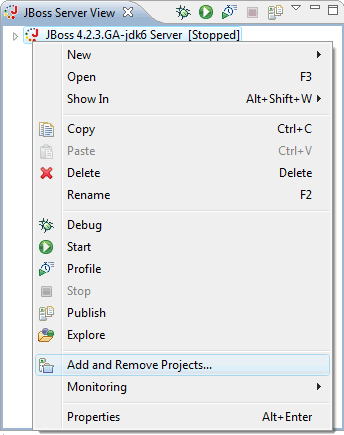
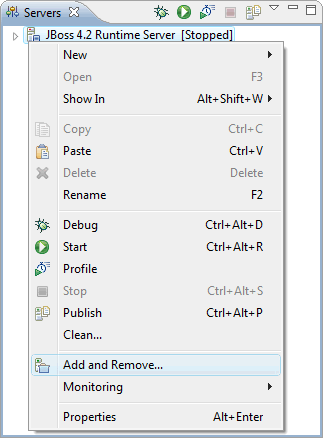
Updating Eclipse tutorial - in progress...

diff --git a/doc/tutorial/02-eclipse.html b/doc/tutorial/02-eclipse.html
@@ -494,13 +494,16 @@ and then import the project all over again.
     </div>
     You can run the goal(s) as needed by right clicking on the <strong>parent</strong> project and 
     select <code><strong>Run As &gt; Maven build</strong> </code> from the menu.
-    <img class="screenshot" src="img/eclipse-run-configurations-03.png" style="width:550px; display:block;" />
+    <img class="screenshot" style="width:500px;" 
+      src="img/eclipse-run-configurations-03.png" longdesc="img/eclipse-run-configurations-03.png" />
   </li>
   <li>
     Start the server and verify that the deployment works:
-    <img class="screenshot" src="img/eclipse-server-view-start-server-01.png" style="width:250px; display:block;" />
+    <img class="screenshot" style="width:300px;" 
+      src="img/eclipse-server-view-start-server-01.png" longdesc="img/eclipse-server-view-start-server-01.png"/>
     A successful deploy should look like this in the Console log:
-    <img class="screenshot" src="img/eclipse-server-view-start-server-02.png" style="width:750px; display:block;" />
+    <img class="screenshot" style="width:700px;" 
+      src="img/eclipse-server-view-start-server-02.png" longdesc="img/eclipse-server-view-start-server-02.png" />
   </li>
   <li>
     Open a browser and point the URL to <a href="http://localhost:8080/seam-tutorial">
@@ -510,9 +513,6 @@ and then import the project all over again.
     Stop the server.
   </li>
 </ol>
-
-<h1>The rest of the tutorial is temporary out of sync with the project!</h1>
-
 
 <h2 id="edit-compile-deploy-cycle">The Edit Compile Deploy Cycle</h2>
 <p>To have an effective development environment we need to automate the edit compile deploy cycle.
@@ -527,71 +527,93 @@ deploy your project.</p>
 <ol>
   <li>
     Open the <strong>JBoss Server View</strong> and add project to server.<br/>
-    <img class="screenshot" src="img/eclipse-wtp-01.png" style="width:280px; display:block;" />
-    Ad the <code>seam-tutorial.ear</code> project and click <strong>Finish</strong>.
-    <img class="screenshot" src="img/eclipse-wtp-02.png" style="width:400px; display:block;" />
+    <img class="screenshot" style="width:280px;" 
+      src="img/eclipse-wtp-01.png" longdesc="img/eclipse-wtp-01.png" />
+   </li>
+   <li>
+    Add the <code>seam-tutorial-ear</code> project and click <strong>Finish</strong>.
+    <img class="screenshot" style="width:400px;" 
+      src="img/eclipse-wtp-02.png" longdesc="img/eclipse-wtp-02.png" />
   </li>
   <li>
     Publish.<br/>
-    <img class="screenshot" src="img/eclipse-wtp-03.png" style="width:400px; display:block;" />
+    <img class="screenshot" style="width:280px;" 
+      src="img/eclipse-wtp-03.png" longdesc="img/eclipse-wtp-03.png" />
   </li>
   <li>
     Start the server and check the console output. 
-    <img class="screenshot" src="img/eclipse-server-view-start-server-01.png" style="width:250px; display:block;" />
+    <img class="screenshot" style="width:300px;" 
+      src="img/eclipse-wtp-07.png" longdesc="img/eclipse-wtp-07.png" />
+      
     <font color="red">You will notice that the application failed to deploy</font>:
+    <div style="width:100%; overflow:hidden;">
     <pre style="font-size:10px;">
 
-12:48:30,813 INFO  [EARDeployer] Init J2EE application: file:/C:/dev/server/jboss-4.2.3.GA-jdk6/server/default/deploy/seam-tutorial-ear.ear/
-12:48:30,814 ERROR [MainDeployer] Could not initialise deployment: file:/C:/dev/server/jboss-4.2.3.GA-jdk6/server/default/deploy/seam-tutorial-ear.ear/
+00:21:28,504 INFO  [EARDeployer] Init J2EE application: file:/C:/dev/server/jboss-4.2.3.GA-jdk6/server/default/deploy/seam-tutorial-ear.ear/
+00:21:28,506 ERROR [MainDeployer] Could not initialise deployment: file:/C:/dev/server/jboss-4.2.3.GA-jdk6/server/default/deploy/seam-tutorial-ear.ear/
 org.jboss.deployment.DeploymentException: No META-INF/application.xml found
-  at org.jboss.deployment.EARDeployer.init(EARDeployer.java:146)
-  at org.jboss.deployment.MainDeployer.init(MainDeployer.java:872)
-  at org.jboss.deployment.MainDeployer.deploy(MainDeployer.java:809)
-  ....
-  at org.jboss.Main$1.run(Main.java:508)
-  at java.lang.Thread.run(Thread.java:619)
-12:48:30,818 ERROR [URLDeploymentScanner] Incomplete Deployment listing:
+	at org.jboss.deployment.EARDeployer.init(EARDeployer.java:146)
+	at org.jboss.deployment.MainDeployer.init(MainDeployer.java:872)
+  ...
+	at $Proxy5.deploy(Unknown Source)
+	at org.jboss.system.server.ServerImpl.doStart(ServerImpl.java:482)
+	at org.jboss.system.server.ServerImpl.start(ServerImpl.java:362)
+	at org.jboss.Main.boot(Main.java:200)
+	at org.jboss.Main$1.run(Main.java:508)
+	at java.lang.Thread.run(Thread.java:619)
+00:21:28,508 ERROR [URLDeploymentScanner] Incomplete Deployment listing:
 
 --- Incompletely deployed packages ---
 org.jboss.deployment.DeploymentInfo@716583c1 { url=file:/C:/dev/server/jboss-4.2.3.GA-jdk6/server/default/deploy/seam-tutorial-ear.ear/ }
-  deployer: org.jboss.deployment.EARDeployer@1b7edd3
+  deployer: org.jboss.deployment.EARDeployer@1cefde4
   status: null
   state: FAILED
   watch: file:/C:/dev/server/jboss-4.2.3.GA-jdk6/server/default/deploy/seam-tutorial-ear.ear/
   altDD: null
-  lastDeployed: 1253443710814
-  lastModified: 1253443587024
+  lastDeployed: 1269127288505
+  lastModified: 1269127256769
   mbeans:
+
     </pre>
+    </div>
   </li>
   <li>
-    Stop the server and inspect the deploy directory. As you can see, the deploy directory contains a copy 
-    of the WEB-INF directory from the WAR module and a couple of jar files that shouldn't be there. 
-    Also the <code>*-ds.xml</code> file is missing. The problem is caused by this Eclipse bug:
-    <a href="https://bugs.eclipse.org/bugs/show_bug.cgi?id=247090">
-    Bug 247090 -  User)libraries incorrectly deployed within EARs</a>
-    <img class="screenshot" src="img/eclipse-wtp-04.png" style="width:400px; display:block;" />
+    Stop the server and inspect the deploy directory. As you can see, the deploy directory contains 
+    3 lib directories and the META-INF directory is empty! Also the <code>*-ds.xml</code> file is 
+    missing. The problem is caused by this Eclipse bug: 
+    <a href="https://bugs.eclipse.org/bugs/show_bug.cgi?id=247090">Bug 247090 -  Userlibraries 
+    incorrectly deployed within EARs</a> (and probably some m2eclipse/wtp/JBossTools bugs as vell :)
+    <img class="screenshot" style="width:600px;" 
+      src="img/eclipse-wtp-04.png" longdesc="img/eclipse-wtp-04.png" />
   </li>
   <li>
     Select the parent project and run <code>mvn install -Pexplode</code> to fix the incorrect deploy.</br>
-    <img class="screenshot" src="img/eclipse-run-configurations-03.png" style="width:550px; display:block;" />
-    <img class="screenshot" src="img/eclipse-wtp-05.png" style="width:330px; display:block;" />
+    <img class="screenshot" style="width:550px;" 
+      src="img/eclipse-run-configurations-03.png" longdesc="img/eclipse-run-configurations-03.png" />
+    <img class="screenshot" style="width:330px;" 
+      src="img/eclipse-wtp-05.png" longdesc="img/eclipse-wtp-05.png" />
   </li>
   <li>
-    Inspect the deploy directory and verify the the incorrectly deployed files are gone and that the 
-    <code>*-ds.xml</code> file is present.
-    <img class="screenshot" src="img/eclipse-wtp-06.png" style="width:400px; display:block;" />
+    Inspect the deploy directory and verify the the incorrectly deployed files are gone and that 
+    <code>seam-tutorial-ds.xml, META-INF/application.xml, META-INF/jboss-app.xml and 
+    META-INF/MANIFEST.MF</code> is present.
+    <img class="screenshot" src="img/eclipse-wtp-06.png" style="width:600px; display:block;" />
   </li>
   <li>
-    Start the server (in debug mode) and check the console output.
-    <img class="screenshot" src="img/eclipse-server-view-start-server-01.png" style="width:250px; display:block;" />
+    Start the server in <strong>debug</strong> mode and check the console output.
+    <img class="screenshot" style="width:350px; display:block;" 
+      src="img/eclipse-wtp-08.png" longdesc="img/eclipse-wtp-08.png" />
+      
+    <div style="width:100%; overflow:hidden;">
     <pre style="font-size:10px;">
 ....
-13:54:43,514 INFO  [EARDeployer] Started J2EE application: file:/C:/dev/server/jboss-4.2.3.GA-jdk6/server/default/deploy/seam-tutorial-ear.ear/
-13:54:43,562 INFO  [Http11Protocol] Starting Coyote HTTP/1.1 on http-localhost%2F127.0.0.1-8080
-13:54:43,571 INFO  [AjpProtocol] Starting Coyote AJP/1.3 on ajp-localhost%2F127.0.0.1-8009
-13:54:43,576 INFO  [Server] JBoss (MX MicroKernel) [4.2.3.GA (build: SVNTag=JBoss_4_2_3_GA date=200807181439)] Started in 14s:340ms
+04:00:17,120 INFO  [EARDeployer] Started J2EE application: file:/C:/dev/server/jboss-4.2.3.GA-jdk6/server/default/deploy/seam-tutorial-ear.ear/
+04:00:17,215 INFO  [Http11Protocol] Starting Coyote HTTP/1.1 on http-localhost%2F127.0.0.1-8080
+04:00:17,237 INFO  [Http11Protocol] Starting Coyote HTTP/1.1 on http-localhost%2F127.0.0.1-8443
+04:00:17,262 INFO  [AjpProtocol] Starting Coyote AJP/1.3 on ajp-localhost%2F127.0.0.1-8009
+04:00:17,276 INFO  [Server] JBoss (MX MicroKernel) [4.2.3.GA (build: SVNTag=JBoss_4_2_3_GA date=200807181439)] Started in 26s:622ms
     </pre>
+    </div>
   </li>
   <li>
     You can check that the WTP works by changing some xhtml and java files. The changes should be 
@@ -601,24 +623,9 @@ org.jboss.deployment.DeploymentInfo@716583c1 { url=file:/C:/dev/server/jboss-4.2
     <a href="http://www.zeroturnaround.com/jrebel/">ZERO TURNAROUND</a>.
   </li>
   <li>
-    You need to keep an eye on the deploy directory as WTP will do a full deploy from time to time, in
-    particular when you make modifications to the EAR module. Then the fix is to stop the server and
-    run <code>mvn install -Pexplode</code> again.
-  </li>
-  <li>
-    <strong>Important:</strong> The child pom's <code>&lt;relativePath&gt;</code> tag must point to 
-    the parent pom. If it don't, the child pom will pick up the parent pom from your local .m2 repo 
-    and will be missing profiles and property values activated trough the parent pom's 
-    <code>profiles.xml</code>.
-    <pre style="font-size:9px;">
-    
-&lt;parent&gt;
-  &lt;groupId&gt;no.knowit.seam&lt;/groupId&gt;
-  &lt;artifactId&gt;seam-refimpl&lt;/artifactId&gt;
-  &lt;version&gt;1.0-SNAPSHOT&lt;/version&gt;
-  <strong><font color="blue">&lt;relativePath&gt;../pom.xml&lt;/relativePath&gt;</font></strong>
-&lt;/parent&gt;
-    </pre>
+    You need to keep an eye on the deploy directory as WTP will do a full (and incorrect) deploy 
+    from time to time, in particular when you make modifications to the EAR module. Then the fix is 
+    to stop the server and run <code>mvn install -Pexplode</code> again.
   </li>
 </ol>
 
@@ -633,24 +640,31 @@ goal you will have a complete <strong>compile- build- deploy</strong> environmen
     The Maven builder executes the <code>explode</code> profile on the <code>process-classes</code> 
     goal. The child poms will "inherit" this builder, so you only need to define the builder on the
     parent project.
-    <img class="screenshot" src="img/eclipse-import-maven-07.png" style="width:350px; display:block;" />
-    <img class="screenshot" src="img/eclipse-maven-builder-01.png" style="width:500px; display:block;" />
-    <img class="screenshot" src="img/eclipse-maven-builder-02.png" style="width:400px; display:block;" />
+    <img class="screenshot" style="width:350px;" 
+      src="img/eclipse-import-maven-07.png" longdesc="img/eclipse-import-maven-07.png" />
+    <img class="screenshot" style="width:500px;" 
+      src="img/eclipse-maven-builder-01.png" longdesc="img/eclipse-maven-builder-01.png" />
+    <img class="screenshot" style="width:400px;" 
+      src="img/eclipse-maven-builder-02.png" longdesc="img/eclipse-maven-builder-02.png" />
+      
     <strong>Note</strong>: Experiment with the <code>Base directory</code> variable. If you use the 
     <code>${project_loc}</code> variable then the builder will run only on the sub project that 
     contains the modified file - resulting in a faster build cycle.
-    <img class="screenshot" src="img/eclipse-maven-builder-03.png" style="width:500px; display:block;" />
+    <img class="screenshot" style="width:500px;" 
+      src="img/eclipse-maven-builder-03.png" longdesc="img/eclipse-maven-builder-03.png" />
   </li>
   <li>
     Run <code>mvn install -Pexplode</code> to do an initial deploy.</br>
-    <img class="screenshot" src="img/eclipse-run-configurations-03.png" style="width:550px; display:block;" />
-    <img class="screenshot" src="img/eclipse-wtp-05.png" style="width:330px; display:block;" />
+    <img class="screenshot" style="width:550px; display:block;" 
+      src="img/eclipse-run-configurations-03.png" longdesc="img/eclipse-run-configurations-03.png" />
+    <img class="screenshot" style="width:330px; display:block;" 
+      src="img/eclipse-wtp-05.png" longdesc="img/eclipse-wtp-05.png" />
   </li>
   <li>
     Test the Builder:<br/>
     Open a java class, e.g. <code>Authenticator.java</code>. Modify the source, save and check
     the console output:
-    <div style="overflow:hidden;">
+    <div style="width:100%;overflow:hidden;">
     <pre style="font-size:9px">
 ...
 [INFO] [antrun:run {execution: ejb-process-classes}]
@@ -689,25 +703,13 @@ goal you will have a complete <strong>compile- build- deploy</strong> environmen
     code replacement is important to you (and it	should be) then get a copy of <strong>JRebel</strong> 
     from <a href="http://www.zeroturnaround.com/jrebel/">ZERO TURNAROUND</a>.
   </li>	
-  <li>
-    <strong>Important:</strong> The child pom's <code>&lt;relativePath&gt;</code> tag must point to 
-    the parent pom. If it don't, the child pom will pick up the parent pom from your local .m2 repo 
-    and will be missing profiles and property values activated trough the parent pom's 
-    <code>profiles.xml</code>.
-    <pre style="font-size:9px;">
-    
-&lt;parent&gt;
-  &lt;groupId&gt;no.knowit.seam&lt;/groupId&gt;
-  &lt;artifactId&gt;seam-refimpl&lt;/artifactId&gt;
-  &lt;version&gt;1.0-SNAPSHOT&lt;/version&gt;
-  <strong>&lt;relativePath&gt;../pom.xml&lt;/relativePath&gt;</strong>
-&lt;/parent&gt;
-    </pre>
-  </li>
 </ol>
 
 <h3>Don't Kill One Bird with Two Stones</h3>
 <p>Choose either to add the project to the WTP server or define a Maven builder.</p>
+
+<h1>The rest of the tutorial is temporary out of sync with the project!</h1>
+
 
 <h2>JBoss Tools</h2>
 <p>JBoss Tools is a perfect match for Seam devolpers using Maven and the Elipse IDE. It helps you 
